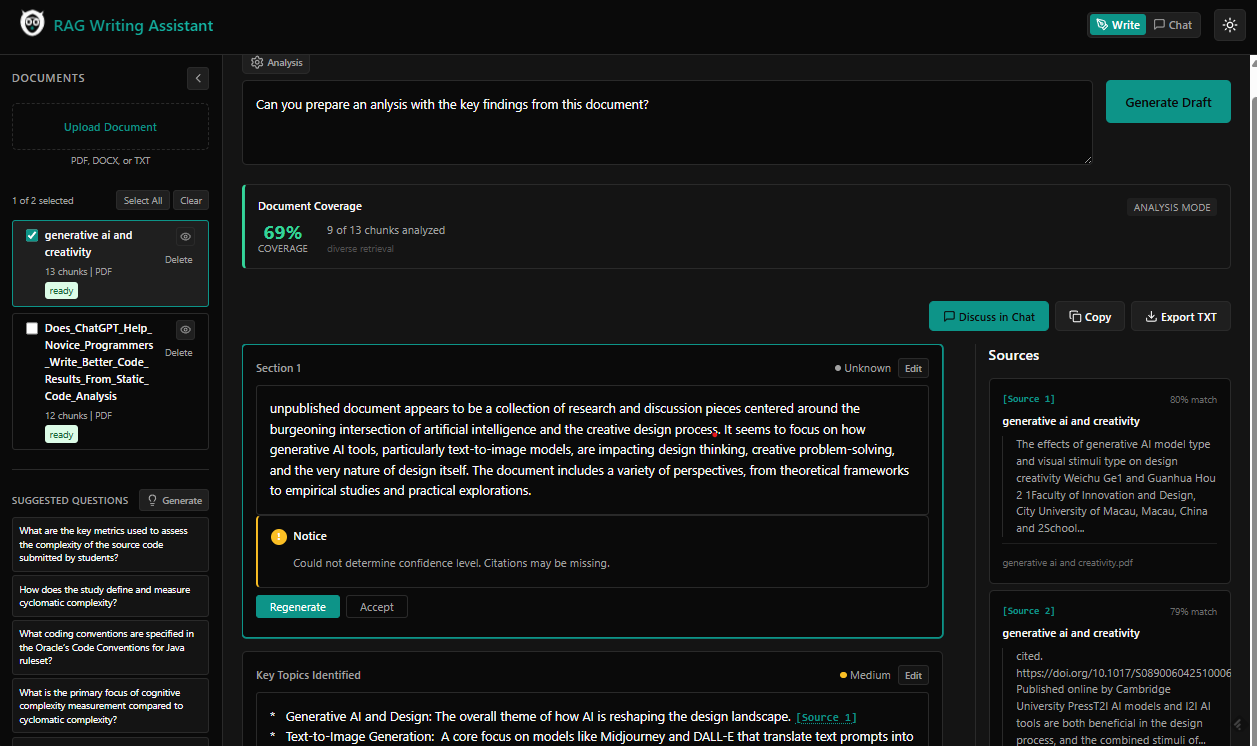
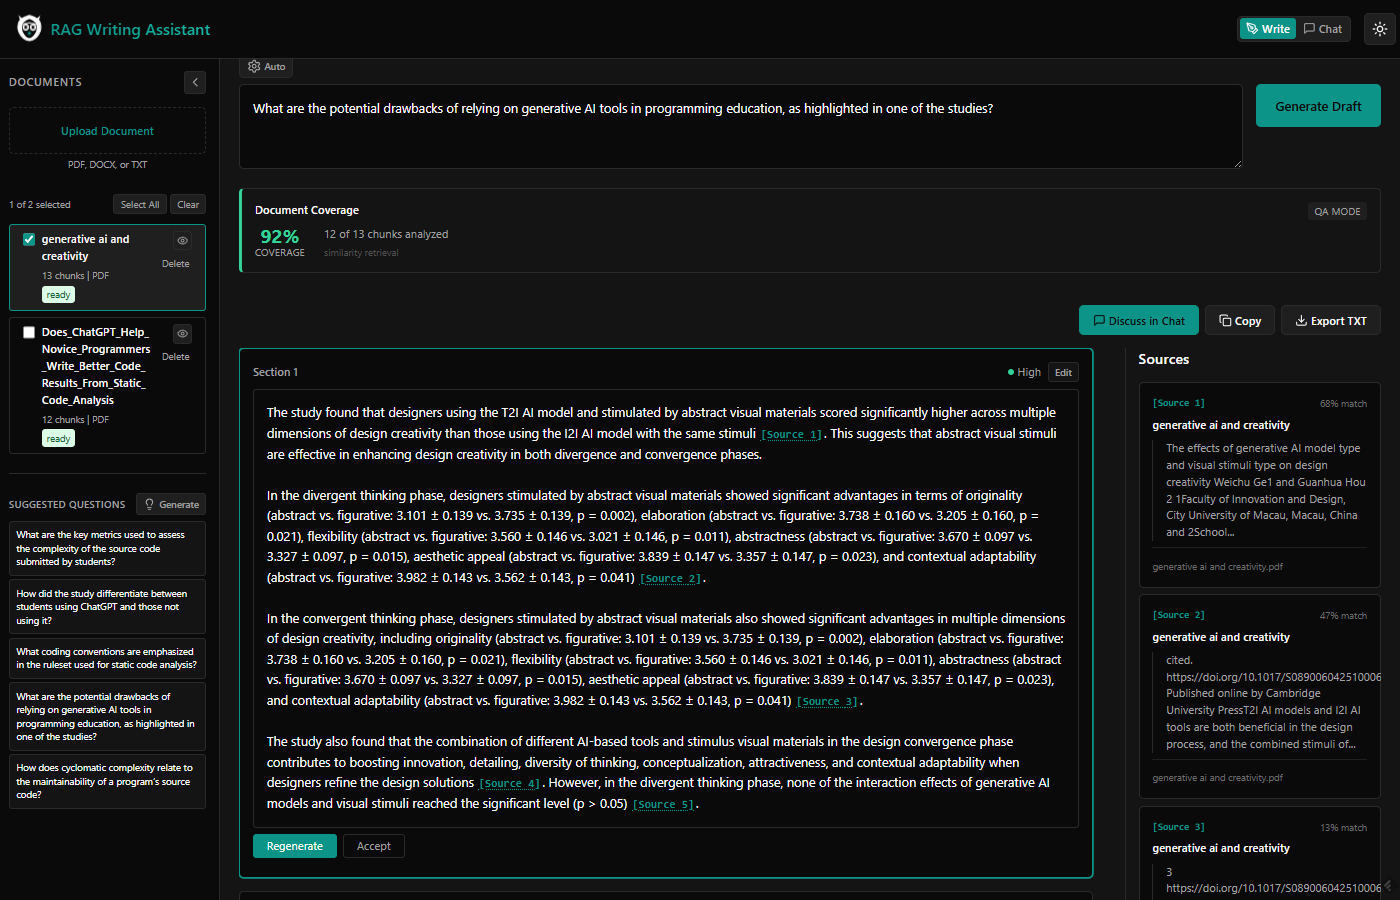
Fix documents not loading on startup, update screenshot
- Add retry with exponential backoff to documents query so it keeps
  retrying when backend starts after frontend
- Update screenshot with current UI

diff --git a/frontend/src/hooks/useDocuments.ts b/frontend/src/hooks/useDocuments.ts
@@ -13,6 +13,8 @@ export function useDocuments() {
   return useQuery({
     queryKey: DOCUMENTS_KEY,
     queryFn: () => apiClient.listDocuments(),
+    retry: true,
+    retryDelay: (attempt) => Math.min(1000 * 2 ** attempt, 10000),
   });
 }
 
